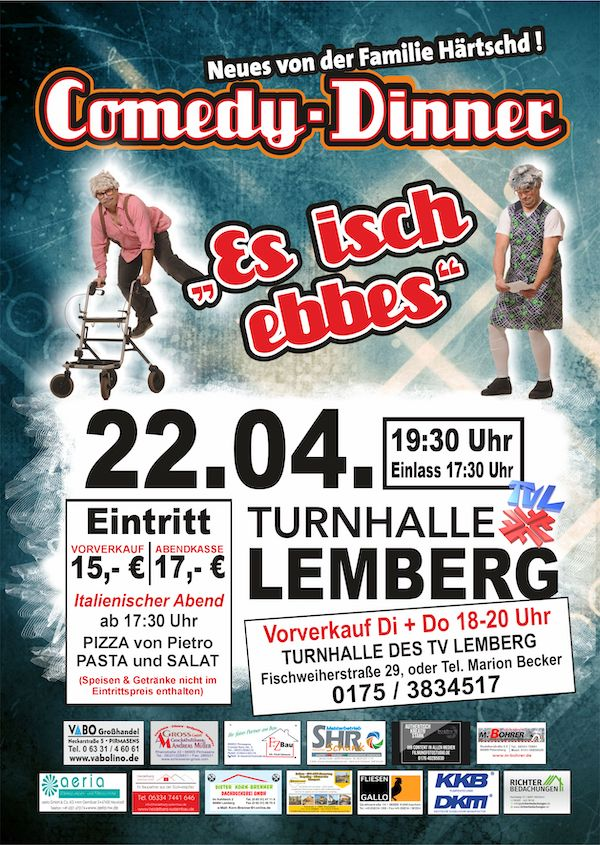
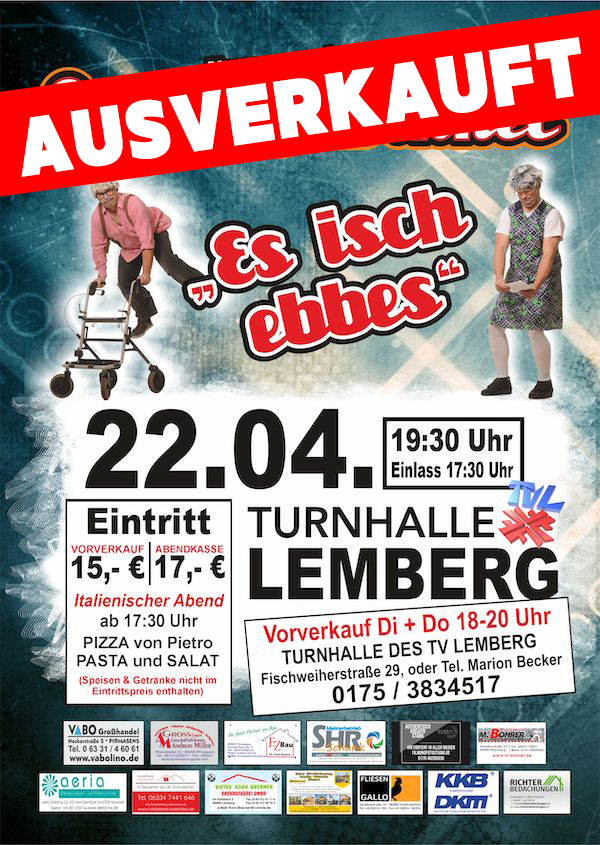
fix(home): update comedy dinner

diff --git a/src/pages/index.tsx b/src/pages/index.tsx
@@ -18,6 +18,10 @@ export default function Home() {
 					<div className='card-body'>
 						<h2 className='card-title'>Comedy Dinner</h2>
 						<p>Am 22.04. in unserer Turnhalle.</p>
+						<p>
+							Das Comedy-Dinner ist ausverkauft. Es gibt eine Warteliste, falls
+							Karten kurzfristig frei werden.
+						</p>
 					</div>
 				</div>
 
